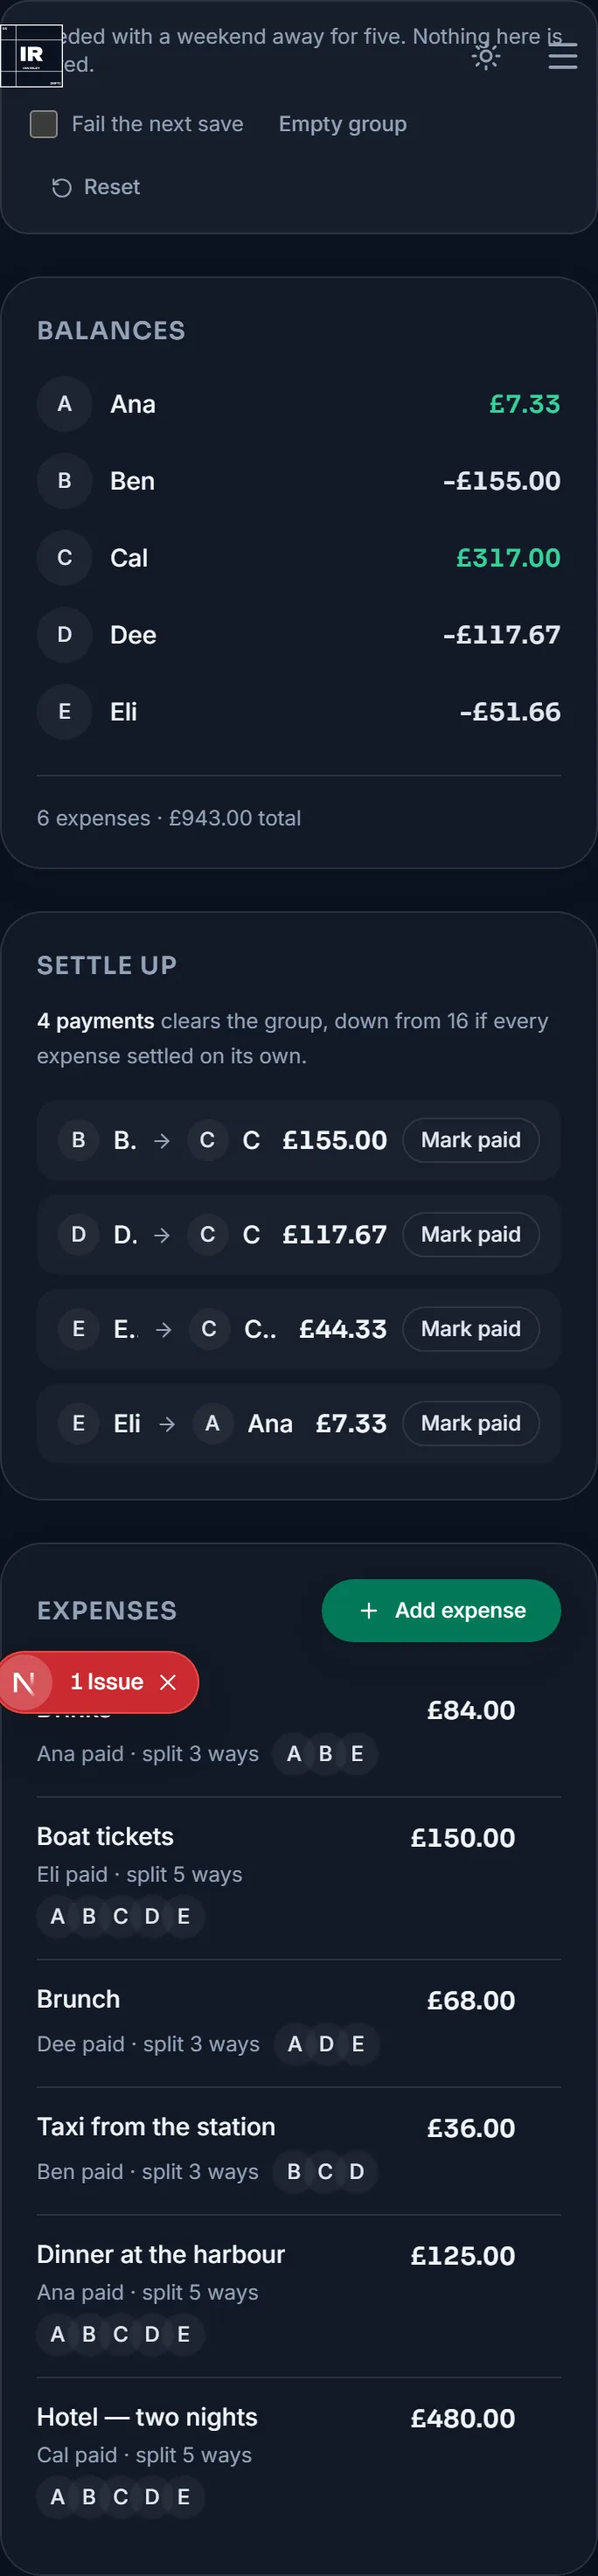
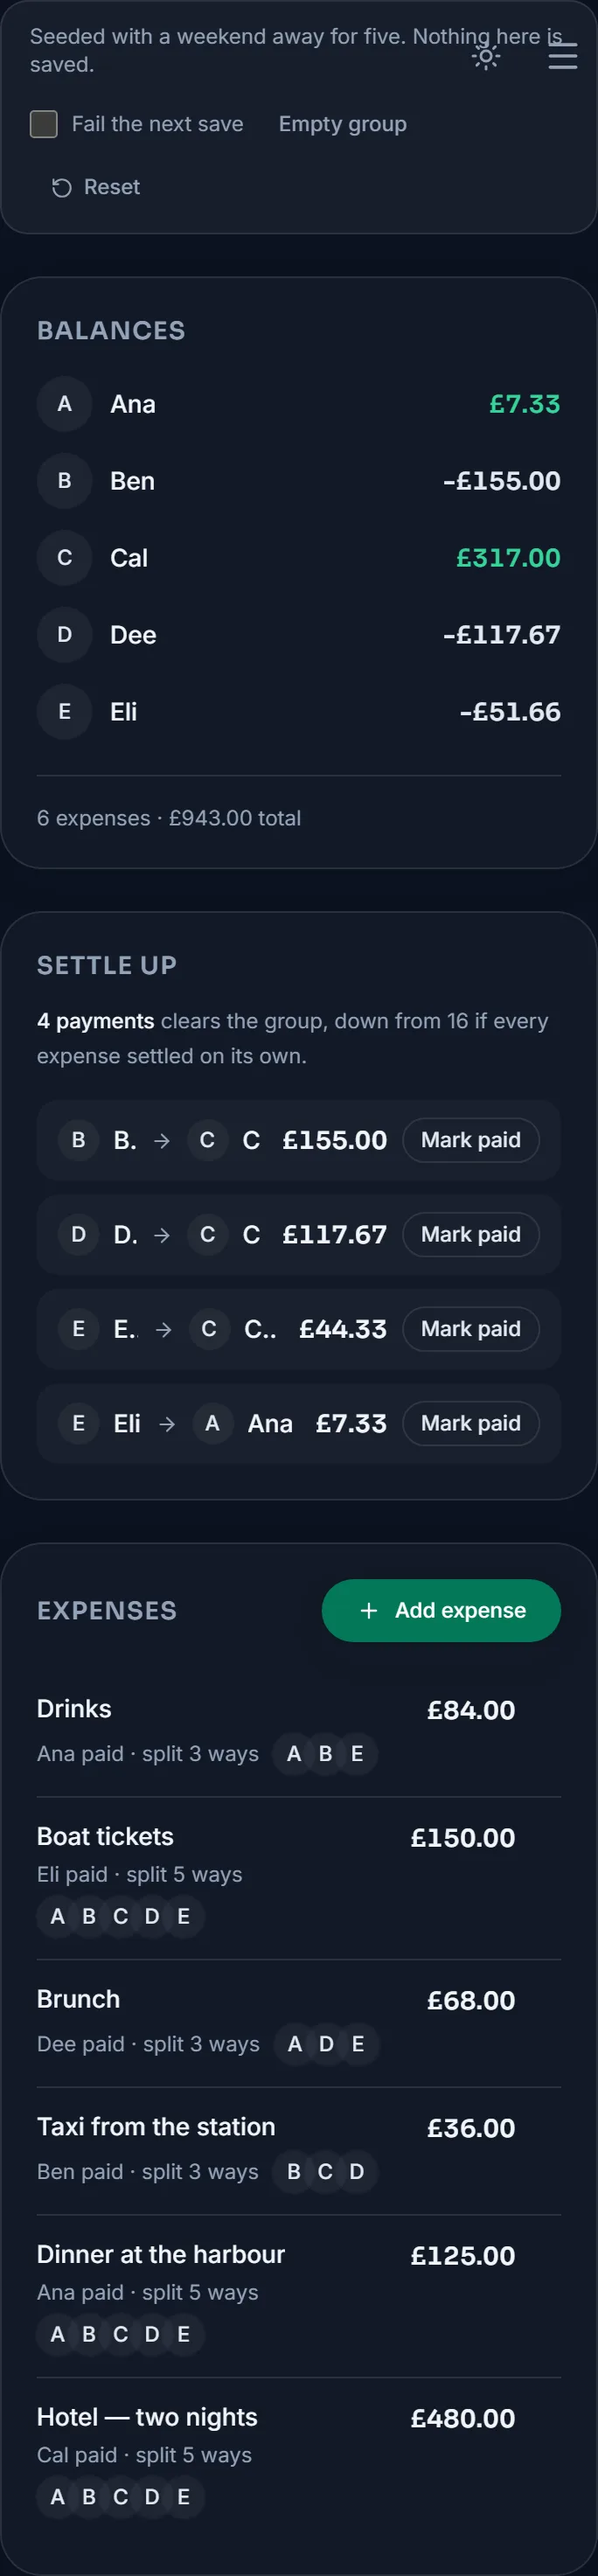
Give the Ledger card its own thumbnail crop
The Work-grid card reused the case-study cover, which made a poor
thumbnail: at 526x296 it was two competing panels with no focal point,
and the card's 16:9 box clipped the balances column off the left edge.

The card now shows the settle-up panel alone, which carries the study's
headline claim ("4 payments clears the group, down from 16") in text
that stays readable at card size. It's the only thumbnail in the grid a
reader can learn something from without clicking.

Captured by capture-ledger.mjs like the other scenes, so it can't drift
from the app. Two things that needed solving:

- Shot at its natural width the panel is 2.06:1, and object-cover then
  cropped the SIDES — cutting off "SETTLE UP" and the "Mark paid"
  buttons, the exact content the crop existed to show. The script now
  pads a capture to a target ratio (padTo) so the card scales it rather
  than cropping, filling with the theme's page background.
- Next's dev overlay baked a red "1 issue" badge into a capture. Its
  portal is now hidden alongside the site chrome, so a dev-server run
  produces the same image a production run would.

Worth knowing: .next/cache/images persists across restarts, so a
replaced source file keeps serving the old optimized output until that
cache is cleared. Cost me two rounds of "the fix didn't apply".

Home page Lighthouse 93 -> 95 (the card image is 22KB, was 78KB).
139 e2e + 65 unit green.

Changed region(s): [[0.0, 0.6246, 0.3377, 0.687], [0.0, 0.0, 0.1228, 0.0312]]

diff --git a/src/components/ledger/LedgerDemo.tsx b/src/components/ledger/LedgerDemo.tsx
@@ -439,98 +439,105 @@ function SettlementPanel({
 }) {
   if (payments.length === 0) {
     return (
-      <Card variant="soft" className="p-5">
-        <PanelHeading>Settle up</PanelHeading>
-        <div className="mt-4 flex items-center gap-2.5 text-sm text-fg-muted">
-          <span className="flex h-7 w-7 items-center justify-center rounded-full bg-brand-50 text-brand-700 dark:bg-brand-500/15 dark:text-brand-300">
-            <Check size={15} aria-hidden="true" />
-          </span>
-          Everyone&apos;s square.
-        </div>
-      </Card>
+      <div data-capture="settle">
+        <Card variant="soft" className="p-5">
+          <PanelHeading>Settle up</PanelHeading>
+          <div className="mt-4 flex items-center gap-2.5 text-sm text-fg-muted">
+            <span className="flex h-7 w-7 items-center justify-center rounded-full bg-brand-50 text-brand-700 dark:bg-brand-500/15 dark:text-brand-300">
+              <Check size={15} aria-hidden="true" />
+            </span>
+            Everyone&apos;s square.
+          </div>
+        </Card>
+      </div>
     );
   }
 
   return (
-    <Card variant="soft" className="p-5">
-      <PanelHeading>Settle up</PanelHeading>
+    // The wrapper carries data-capture rather than the Card: Card takes a fixed
+    // prop set and doesn't spread extras, and widening its API for one
+    // screenshot hook isn't a trade worth making. See scripts/capture-ledger.mjs.
+    <div data-capture="settle">
+      <Card variant="soft" className="p-5">
+        <PanelHeading>Settle up</PanelHeading>
 
-      <p className="mt-3 text-xs leading-relaxed text-fg-muted">
-        <span className="font-medium text-fg">
-          {payments.length} payment{payments.length === 1 ? "" : "s"}
-        </span>{" "}
-        {isMinimal ? "clears" : "clear"} the group, down from {naiveCount} if
-        every expense settled on its own.
-        {!isMinimal && (
-          // Stated rather than hidden: greedy can't always prove it hit the
-          // floor, and claiming "minimal" when it isn't would be a lie the
-          // reader can't check. See settlementIsMinimal.
-          <span className="text-fg-faint"> Close to minimal, not provably it.</span>
-        )}
-      </p>
+        <p className="mt-3 text-xs leading-relaxed text-fg-muted">
+          <span className="font-medium text-fg">
+            {payments.length} payment{payments.length === 1 ? "" : "s"}
+          </span>{" "}
+          {isMinimal ? "clears" : "clear"} the group, down from {naiveCount} if
+          every expense settled on its own.
+          {!isMinimal && (
+            // Stated rather than hidden: greedy can't always prove it hit the
+            // floor, and claiming "minimal" when it isn't would be a lie the
+            // reader can't check. See settlementIsMinimal.
+            <span className="text-fg-faint"> Close to minimal, not provably it.</span>
+          )}
+        </p>
 
-      <ul className="mt-4 space-y-2">
-        {payments.map((payment) => {
-          const key = `${payment.from}-${payment.to}`;
-          const from = personById(group, payment.from);
-          const to = personById(group, payment.to);
-          const settled = justSettled === key;
+        <ul className="mt-4 space-y-2">
+          {payments.map((payment) => {
+            const key = `${payment.from}-${payment.to}`;
+            const from = personById(group, payment.from);
+            const to = personById(group, payment.to);
+            const settled = justSettled === key;
 
-          return (
-            <li
-              key={key}
-              className="flex items-center justify-between gap-3 rounded-xl bg-surface px-3 py-2.5"
-            >
-              <span className="flex min-w-0 items-center gap-2 text-sm">
-                <Avatar person={from} size="sm" />
-                <span className="truncate font-medium text-fg">{from.name}</span>
-                <ArrowRight
-                  size={13}
-                  className="shrink-0 text-fg-faint"
-                  aria-hidden="true"
-                />
-                <Avatar person={to} size="sm" />
-                <span className="truncate font-medium text-fg">{to.name}</span>
-              </span>
-
-              <span className="flex shrink-0 items-center gap-2">
-                <span className="font-display text-sm font-semibold tabular-nums text-fg">
-                  {format(payment.amount)}
+            return (
+              <li
+                key={key}
+                className="flex items-center justify-between gap-3 rounded-xl bg-surface px-3 py-2.5"
+              >
+                <span className="flex min-w-0 items-center gap-2 text-sm">
+                  <Avatar person={from} size="sm" />
+                  <span className="truncate font-medium text-fg">{from.name}</span>
+                  <ArrowRight
+                    size={13}
+                    className="shrink-0 text-fg-faint"
+                    aria-hidden="true"
+                  />
+                  <Avatar person={to} size="sm" />
+                  <span className="truncate font-medium text-fg">{to.name}</span>
                 </span>
-                <button
-                  type="button"
-                  onClick={() => onSettle(payment)}
-                  disabled={settled}
-                  // Bordered rather than bare text: at this size an unbordered
-                  // label beside an amount reads as metadata, and the one
-                  // action in the panel shouldn't need a hover to be findable.
-                  className={cn(
-                    "rounded-full border px-2.5 py-1 text-xs font-medium transition-colors",
-                    settled
-                      ? "border-transparent text-brand-700 dark:text-brand-400"
-                      : "border-border-subtle text-fg-soft hover:border-brand-300 hover:bg-brand-50 hover:text-brand-700 dark:hover:border-brand-500/50 dark:hover:bg-white/5 dark:hover:text-brand-300",
-                  )}
-                >
-                  {settled ? (
-                    <span className="inline-flex items-center gap-1">
-                      <Check size={12} aria-hidden="true" />
-                      Done
-                    </span>
-                  ) : (
-                    <>
-                      Mark paid
-                      <span className="sr-only">
-                        : {from.name} pays {to.name} {format(payment.amount)}
+
+                <span className="flex shrink-0 items-center gap-2">
+                  <span className="font-display text-sm font-semibold tabular-nums text-fg">
+                    {format(payment.amount)}
+                  </span>
+                  <button
+                    type="button"
+                    onClick={() => onSettle(payment)}
+                    disabled={settled}
+                    // Bordered rather than bare text: at this size an unbordered
+                    // label beside an amount reads as metadata, and the one
+                    // action in the panel shouldn't need a hover to be findable.
+                    className={cn(
+                      "rounded-full border px-2.5 py-1 text-xs font-medium transition-colors",
+                      settled
+                        ? "border-transparent text-brand-700 dark:text-brand-400"
+                        : "border-border-subtle text-fg-soft hover:border-brand-300 hover:bg-brand-50 hover:text-brand-700 dark:hover:border-brand-500/50 dark:hover:bg-white/5 dark:hover:text-brand-300",
+                    )}
+                  >
+                    {settled ? (
+                      <span className="inline-flex items-center gap-1">
+                        <Check size={12} aria-hidden="true" />
+                        Done
                       </span>
-                    </>
-                  )}
-                </button>
-              </span>
-            </li>
-          );
-        })}
-      </ul>
-    </Card>
+                    ) : (
+                      <>
+                        Mark paid
+                        <span className="sr-only">
+                          : {from.name} pays {to.name} {format(payment.amount)}
+                        </span>
+                      </>
+                    )}
+                  </button>
+                </span>
+              </li>
+            );
+          })}
+        </ul>
+      </Card>
+    </div>
   );
 }
 

diff --git a/src/components/projectAssets.tsx b/src/components/projectAssets.tsx
@@ -89,15 +89,22 @@ const cardScene: Record<
     width: 1800,
     height: 1013,
   },
-  // Ledger's scene 0 is already a still (no video hero), so this entry exists
-  // only to pick the LIGHT capture for the grid. next/image can't switch on
-  // prefers-color-scheme the way the case study's <picture> does, and a card
-  // is small enough that the mismatch reads as a design choice rather than a
-  // bug — whereas a full-width dark screenshot on a light page does not.
+  // A dedicated crop, not the case-study cover.
+  //
+  // The full-app capture makes a poor thumbnail: at 526x296 it's two competing
+  // panels with no single focal point, and the card's 16:9 box clips the
+  // balances column off the left edge. This is the settle-up panel alone —
+  // 656x318 native, so it barely crops — which carries the study's headline
+  // claim ("4 payments … down from 16") in text that stays readable at card
+  // size. Produced by scripts/capture-ledger.mjs alongside the scenes.
+  //
+  // Light only: next/image can't switch on prefers-color-scheme the way the
+  // case study's <picture> does. At card size a light panel reads as a design
+  // choice; a full-width dark screenshot on a light page would not.
   "expense-tracker-app": {
-    src: "/work/ledger/overview-light.webp",
-    width: 2176,
-    height: 1556,
+    src: "/work/ledger/card-light.webp",
+    width: 1131,
+    height: 636,
   },
 };
 
